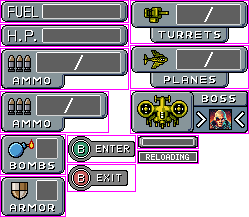
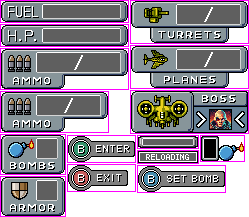
Add bomb graphic and indication

Changed region(s): [[0.5341, 0.6083, 0.9839, 0.9124]]

diff --git a/src/game/turret.c b/src/game/turret.c
@@ -61,6 +61,37 @@ void render_turrets()
         select_region(RegionTurretGun);
         set_drawing_angle(turret_angle[i]);
         tilemap_draw_region_rotated(&world_map, turret_x[i], turret_y[i]);
+        
+        // Dibujar indicacion de poner bomba si
+        // el jugador lo puede hacer en este momento
+        if(is_player_in_vehicle || soldier_bombs <= 0)
+            continue;
+        
+        // No indicar si ya hay alguna bomba puesta
+        bool there_are_bombs = false;
+        
+        for(int j = 0; j < MaxActiveBombs; j++)
+           if(bomb_active[j])
+               there_are_bombs = true;
+        
+        if(there_are_bombs)
+            continue;
+        
+        float dx = soldier_x - turret_x[i];
+        float dy = soldier_y - turret_y[i];
+        float distance = sqrt(dx*dx + dy*dy);
+        
+        // Indicar solo cuando estamos cerca
+        if(distance < (2*TurretBaseWidth))
+        {
+            // Dibujar con parpadeo para que se vea mejor
+            if(get_frame_counter() % 40 > 8)
+            {
+                select_texture(TextureGui);
+                select_region(RegionBombSign);
+                tilemap_draw_region(&world_map, turret_x[i]-5, turret_y[i]+35);
+            }
+        }
     }
 }
 

diff --git a/src/game/bomb.c b/src/game/bomb.c
@@ -198,16 +198,21 @@ void render_bombs()
     {
         if (!bomb_active[i])
             continue;
-
+        
+        // convertir posicion del mundo a la pantalla
+        float draw_x = bomb_x[i];
+        float draw_y = bomb_y[i];
+        tilemap_convert_position_to_screen(&world_map, &draw_x, &draw_y);
+        
         // Dibujar la bomba
-        set_multiply_color(RedColor);
-        tilemap_draw_region(&world_map, bomb_x[i], bomb_y[i]);
+        set_multiply_color(color_white);
+        select_texture(TextureGui);
+        select_region(RegionBomb);
+        draw_region_at(draw_x, draw_y);
 
         // Mostrar el temporizador
         set_multiply_color(RedColor);
-        int[8] timer_text;
-        itoa((int)bomb_timer[i] + 1, timer_text, 10);
-        tilemap_print(&world_map, bomb_x[i] - 5, bomb_y[i] - 20, timer_text);
+        print_1digit_at(draw_x + 4, draw_y + 3, (int)bomb_timer[i] + 1);
     }
     
     // Restaurar el color

diff --git a/src/game/bullet.c b/src/game/bullet.c
@@ -149,7 +149,7 @@ void check_bullet_collisions()
                 float HitRadius = EnemyHoverFrameWidth * 0.3;
                 
                 if(enemy_type[i] == EnemyTypeSoldier)
-                  HitRadius = SoldierWidth * 0.3;
+                  HitRadius = SoldierWidth * 0.4;
                 
                 if (check_circle_collision(
                         bullet_x[i], bullet_y[i],

diff --git a/src/game/render_system.c b/src/game/render_system.c
@@ -60,6 +60,10 @@ void initialize_gui()
     define_region( 138,136,  197,147,  138,136 );
     select_region( RegionSoldierReloading );
     define_region( 138,151,  197,162,  138,151 );
+    select_region( RegionBombSign );
+    define_region( 138,166,  224,191,  183,178 );
+    select_region( RegionBomb );
+    define_region( 201,136,  243,160,  201,136 );
 }
 
 void render_objectives()

diff --git a/src/utils/definitions.h b/src/utils/definitions.h
@@ -96,7 +96,9 @@ enum RegionsGui
     RegionEnterSign,
     RegionExitSign,
     RegionSoldierHealth,
-    RegionSoldierReloading
+    RegionSoldierReloading,
+    RegionBombSign,
+    RegionBomb
 };
 
 // ---- IDIOMAS ----
